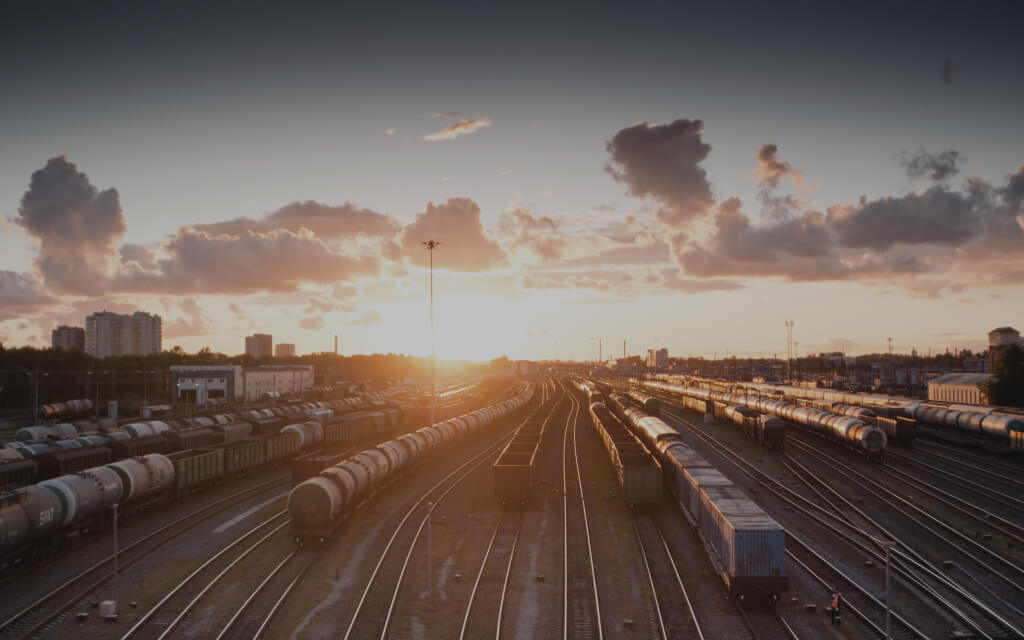
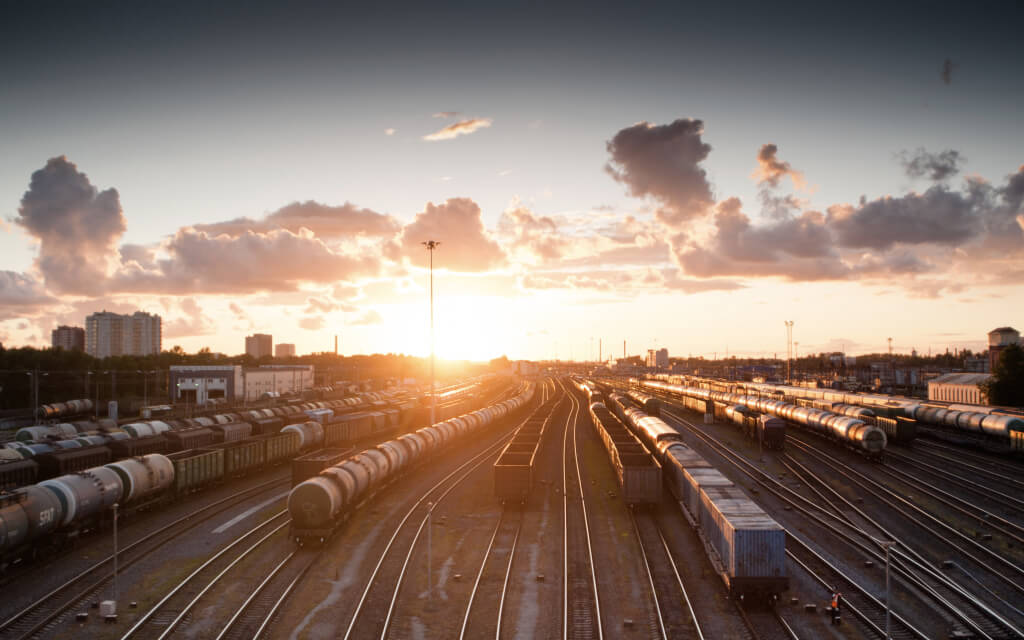
header/cover

diff --git a/index.html b/index.html
@@ -62,8 +62,8 @@
                     <div class="place__title-container">
                         <h2 class="place__title">Куршская коса</h2>
                         <div class="place__website">
-                            <p class="place__url-heading">URL</p>
-                            <a class="place__url" href="http://park-kosa.ru/">park-kosa.ru</a>
+                            <p class="place__url-heading">url</p>
+                            <a class="place__url" href="http://park-kosa.ru/" target="_blank">park-kosa.ru</a>
                         </div>
                     </div>
                     <div class="place__image-container">
@@ -83,8 +83,8 @@
                     <div class="place__title-container">
                         <h2 class="place__title">Кольский</h2>
                         <div class="place__website">
-                            <p class=" place__url-heading">URL</p>
-                            <a class=" place__url" href="https://yourshot.nationalgeographic.com/photos/?keywords=kolskiy">National
+                            <p class=" place__url-heading">url</p>
+                            <a class=" place__url" href="https://yourshot.nationalgeographic.com/photos/?keywords=kolskiy" target="_blank">National
                                 Geographic</a>
                         </div>
                     </div>
@@ -104,8 +104,8 @@
                     <div class="place__title-container">
                         <h2 class="place__title">Алтай</h2>
                         <div class="place__website">
-                            <p class="place__url-heading">URL</p>
-                            <a class="place__url" href="https://www.facebook.com/vera.bashmakova/posts/10156011613718822">Facebook</a>
+                            <p class="place__url-heading">url</p>
+                            <a class="place__url" href="https://www.facebook.com/vera.bashmakova/posts/10156011613718822" target="_blank">Facebook</a>
                         </div>
                     </div>
                     <div class="place__image-container">
@@ -126,8 +126,8 @@
                     <div class="place__title-container">
                         <h2 class="place__title">Зимний Байкал</h2>
                         <div class="place__website">
-                            <p class="place__url-heading">URL</p>
-                            <a class="place__url" href="https://vk.com/baikalmile">https://vk.com/baikalmile</a>
+                            <p class="place__url-heading">url</p>
+                            <a class="place__url" href="https://vk.com/baikalmile" target="_blank">https://vk.com/baikalmile</a>
                         </div>
                     </div>
                     <div class="place__image-container">
@@ -146,8 +146,8 @@
                     <div class="place__title-container">
                         <h2 class="place__title">Карелия</h2>
                         <div class="place__website">
-                            <p class="place__url-heading">URL</p>
-                            <a class="place__url" href="http://vodlozero.ru">http://vodlozero.ru/</a>
+                            <p class="place__url-heading">url</p>
+                            <a class="place__url" href="http://vodlozero.ru" target="_blank">http://vodlozero.ru/</a>
                         </div>
                     </div>
                     <div class="place__image-container">
@@ -163,8 +163,8 @@
                 </article>
             </section>
 
-            <section class="cover">
-                <a class="cover__link" href="https://stampsy.com/na-elektrichkakh-do-baikala">
+            <section class="cover section">
+                <a class="cover__link" href="https://stampsy.com/na-elektrichkakh-do-baikala" target="_blank">
                     <img src="images/cover.jpg" alt="Поезда" class="cover__image">
                     <h2 class="cover__title">До Байкала &laquo;на собаках&raquo;</h2>
                     <p class="cover__subtitle">По мотивам учебной темы о Транссибе и iframes — путешествие от столицы до Байкала на электричках.</p>
@@ -176,19 +176,19 @@
             <nav>
                 <ul class="footer__items">
                     <li class="footer__list-item">
-                        <a class="footer__link" href="https://yandex.ru/maps">Карты</a>
+                        <a class="footer__link" href="https://yandex.ru/maps" target="_blank">Карты</a>
                     </li>
                     <li class="footer__list-item">
-                        <a class="footer__link" href="https://yandex.ru/pogoda">Погода</a>
+                        <a class="footer__link" href="https://yandex.ru/pogoda" target="_blank">Погода</a>
                     </li>
                     <li class="footer__list-item">
-                        <a class="footer__link" href="https://rasp.yandex.ru">Расписание</a>
+                        <a class="footer__link" href="https://rasp.yandex.ru" target="_blank">Расписание</a>
                     </li>
                     <li class="footer__list-item">
-                        <a class="footer__link" href="https://calendar.yandex.ru">Календарь</a>
+                        <a class="footer__link" href="https://calendar.yandex.ru" target="_blank">Календарь</a>
                     </li>
                     <li class="footer__list-item">
-                        <a class="footer__link" href="https://travel.yandex.ru">Путешествия</a>
+                        <a class="footer__link" href="https://travel.yandex.ru" target="_blank">Путешествия</a>
                     </li>
                 </ul>
             </nav>

diff --git a/blocks/cover/__link/cover__link.css b/blocks/cover/__link/cover__link.css
@@ -12,20 +12,20 @@
     height: 740px;
 }
 
-.cover__link:before {
+.cover__link::before {
     content: '';
     position: absolute;
     top: 0;
     left: 0;
     right: 0;
     bottom: 0;
-    opacity: 0.5;
+    background-color: #2A2C2F;
+    opacity: 0.3;
     z-index: -1;
-    transition: opacity 200ms ease-in-out;
+    transition: opacity 200ms ease-out;
 }
 
 .cover__link:hover:before {
-    background: #2A2C2F;
     opacity: 0.8;
 }
 

diff --git a/blocks/place/__url/place__url.css b/blocks/place/__url/place__url.css
@@ -1,21 +1,3 @@
-.place__url-heading {
-    max-width: 100%;
-    font-size: 12px;
-    line-height: 1.2;
-    font-weight: normal;
-    font-style: normal;
-    letter-spacing: 0.2em;
-    color: #aaa;
-    text-transform: uppercase;
-    margin: 23px 0 0;
-}
-
-@media screen and (max-width:768px) {
-    .place__url-heading {
-        margin-bottom: 12px;
-    }
-}
-
 .place__url {
     max-width: 100%;
     color: #FFFFFF;

diff --git a/blocks/header/header.css b/blocks/header/header.css
@@ -12,13 +12,13 @@
     padding: 28px 0 0;
 }
 
-@media screen and (min-width: 768px) and (max-width: 1024px) {
+@media screen and (max-width: 1024px) {
     .header {
         max-width: 928px;
     }
 }
 
-@media screen and (min-width: 768px) and (max-width: 1024px) {
+@media screen and (max-width: 768px) {
     .header {
         max-width: 720px;
     }

diff --git a/blocks/cover/__image/cover__image.css b/blocks/cover/__image/cover__image.css
@@ -9,6 +9,7 @@
     height: 100%;
     width: 100%;
     object-fit: cover;
+    min-height: 740px;
 }
 
 @media screen and (max-width: 1024px) and (min-width: 768px) {
